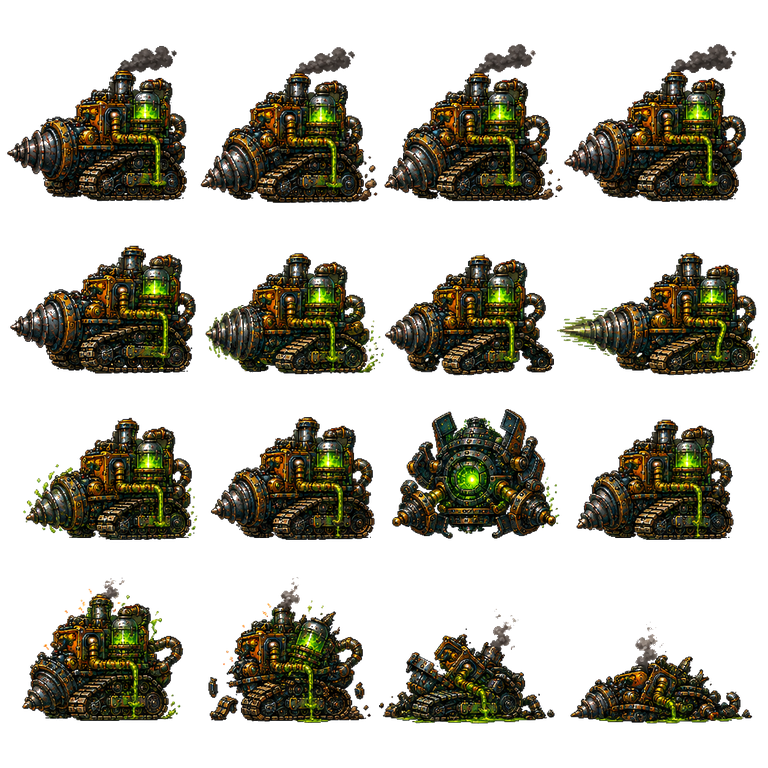
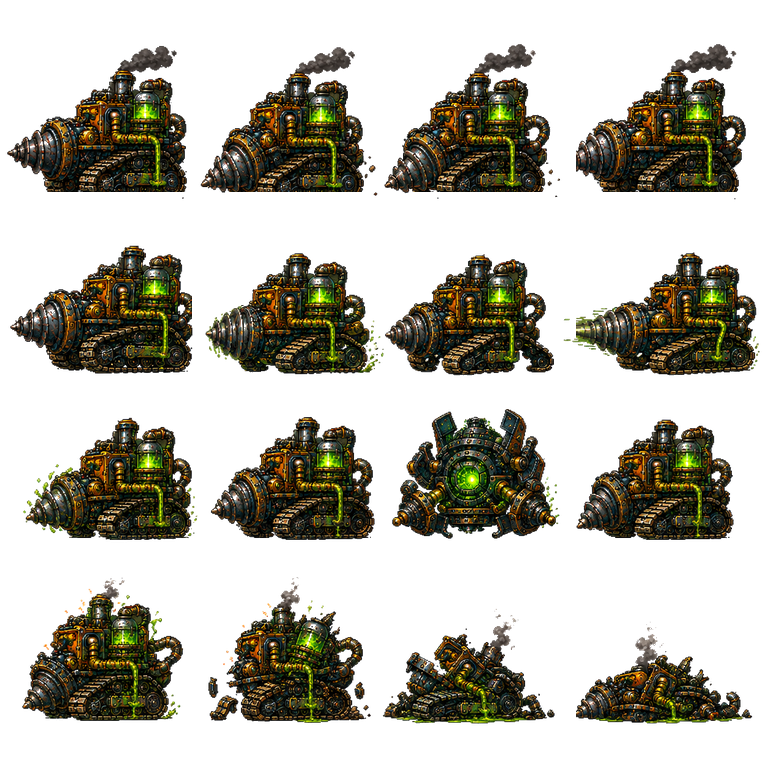
Remove sprite atlas boundary bleed

diff --git a/tools/prepare_sprite_atlases.py b/tools/prepare_sprite_atlases.py
@@ -31,6 +31,58 @@ def key_backdrop(image: Image.Image, black: bool = False) -> Image.Image:
     return rgba
 
 
+def remove_boundary_bleed(image: Image.Image, min_area: int = 24) -> Image.Image:
+    """Drop disconnected pixels that leaked in from a neighboring pose cell.
+
+    The authored pose boards occasionally let a previous character cross a
+    cell boundary.  Cropping the board alone preserves those pixels, so the
+    next animation frame can appear as a second character trailing the hero.
+    Keep the largest connected silhouette and any interior effects, but remove
+    smaller components that touch a cell edge.  This is deliberately limited to
+    disconnected edge components: muzzle flashes, grenades and debris inside
+    the cell remain available to the renderer.
+    """
+    rgba = image.convert("RGBA")
+    width, height = rgba.size
+    px = rgba.load()
+    visited: set[tuple[int, int]] = set()
+    components: list[tuple[int, tuple[int, int, int, int], list[tuple[int, int]]]] = []
+    for y in range(height):
+        for x in range(width):
+            if (x, y) in visited or px[x, y][3] < 72:
+                continue
+            stack = [(x, y)]
+            visited.add((x, y))
+            points: list[tuple[int, int]] = []
+            left = right = x
+            top = bottom = y
+            while stack:
+                xx, yy = stack.pop()
+                points.append((xx, yy))
+                left, right = min(left, xx), max(right, xx)
+                top, bottom = min(top, yy), max(bottom, yy)
+                for nx in range(xx - 1, xx + 2):
+                    for ny in range(yy - 1, yy + 2):
+                        if not (0 <= nx < width and 0 <= ny < height):
+                            continue
+                        if (nx, ny) in visited or px[nx, ny][3] < 72:
+                            continue
+                        visited.add((nx, ny))
+                        stack.append((nx, ny))
+            if len(points) >= min_area:
+                components.append((len(points), (left, top, right, bottom), points))
+    if len(components) < 2:
+        return rgba
+    components.sort(key=lambda item: item[0], reverse=True)
+    for area, (left, top, right, bottom), points in components[1:]:
+        touches_edge = left == 0 or top == 0 or right == width - 1 or bottom == height - 1
+        if touches_edge and area < components[0][0]:
+            for xx, yy in points:
+                r, g, b, _ = px[xx, yy]
+                px[xx, yy] = (r, g, b, 0)
+    return rgba
+
+
 def normalize(source: Path, target: Path, size: tuple[int, int], cols: int, rows: int,
               black: bool = False, duplicate_rows: tuple[int, ...] = ()) -> None:
     source_image = Image.open(source).convert("RGBA")
@@ -47,8 +99,10 @@ def normalize(source: Path, target: Path, size: tuple[int, int], cols: int, rows
             sy1 = (row + 1) * source_image.height // rows
             cell = source_image.crop((sx0, sy0, sx1, sy1))
             cell = key_backdrop(cell, black=black)
+            cell = remove_boundary_bleed(cell)
             cell = cell.resize((cell_w, cell_h), Image.Resampling.LANCZOS)
             cell = key_backdrop(cell, black=black)
+            cell = remove_boundary_bleed(cell)
             image.alpha_composite(cell, (col * cell_w, row * cell_h))
     for row in duplicate_rows:
         src = image.crop((6 * cell_w, row * cell_h, 7 * cell_w, (row + 1) * cell_h))
